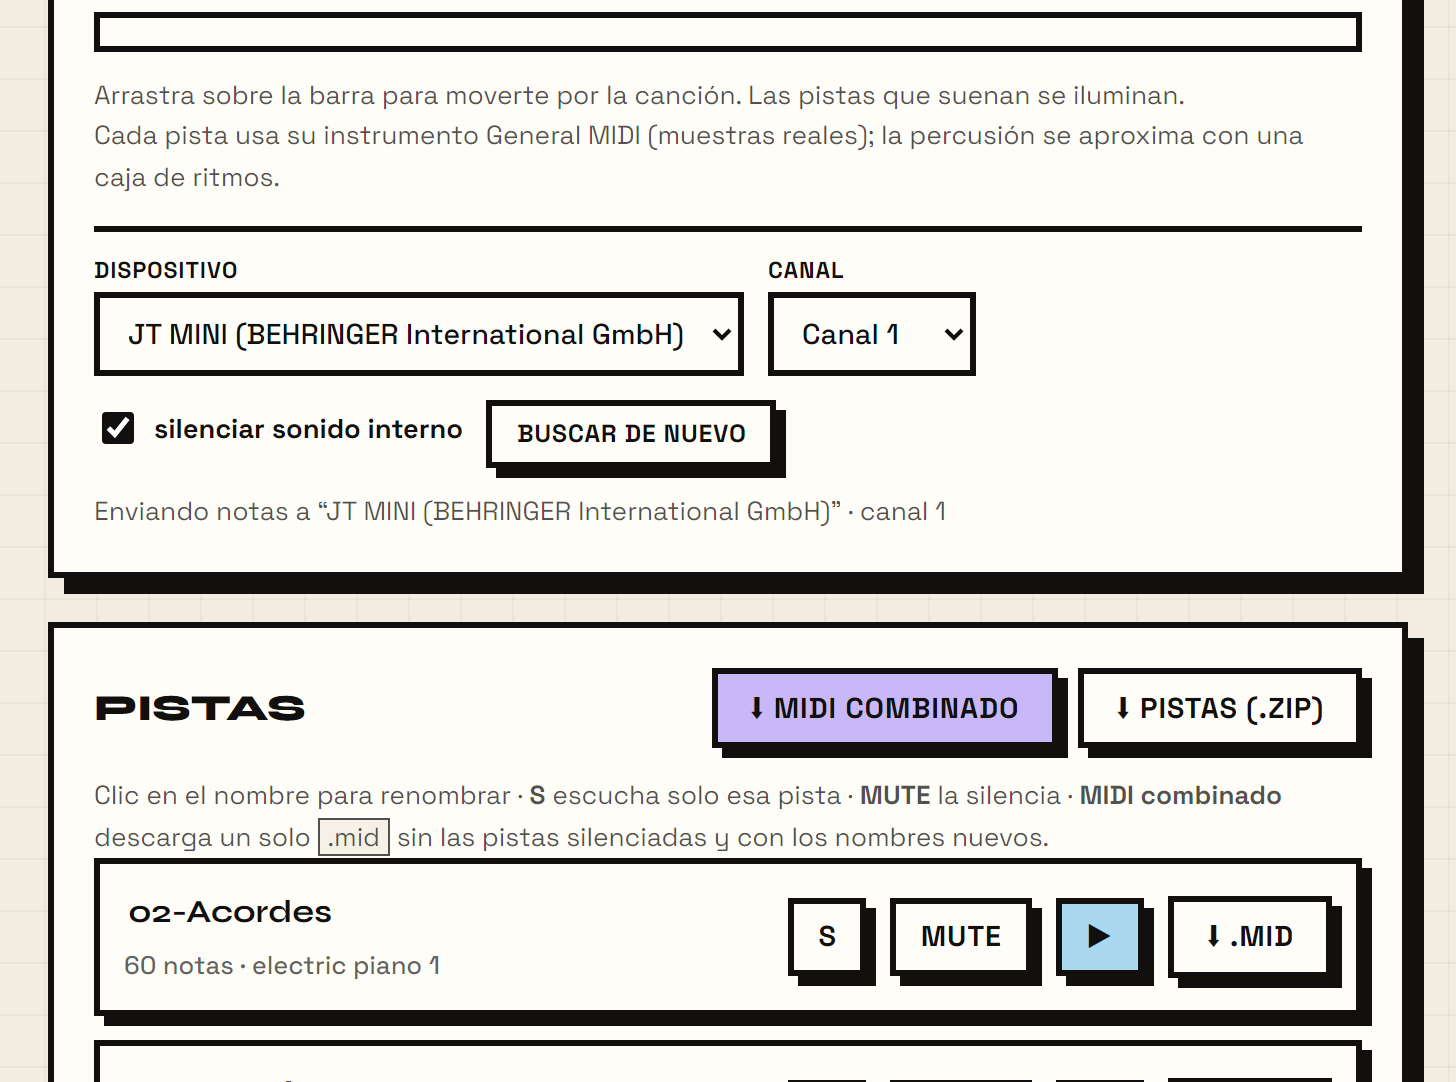
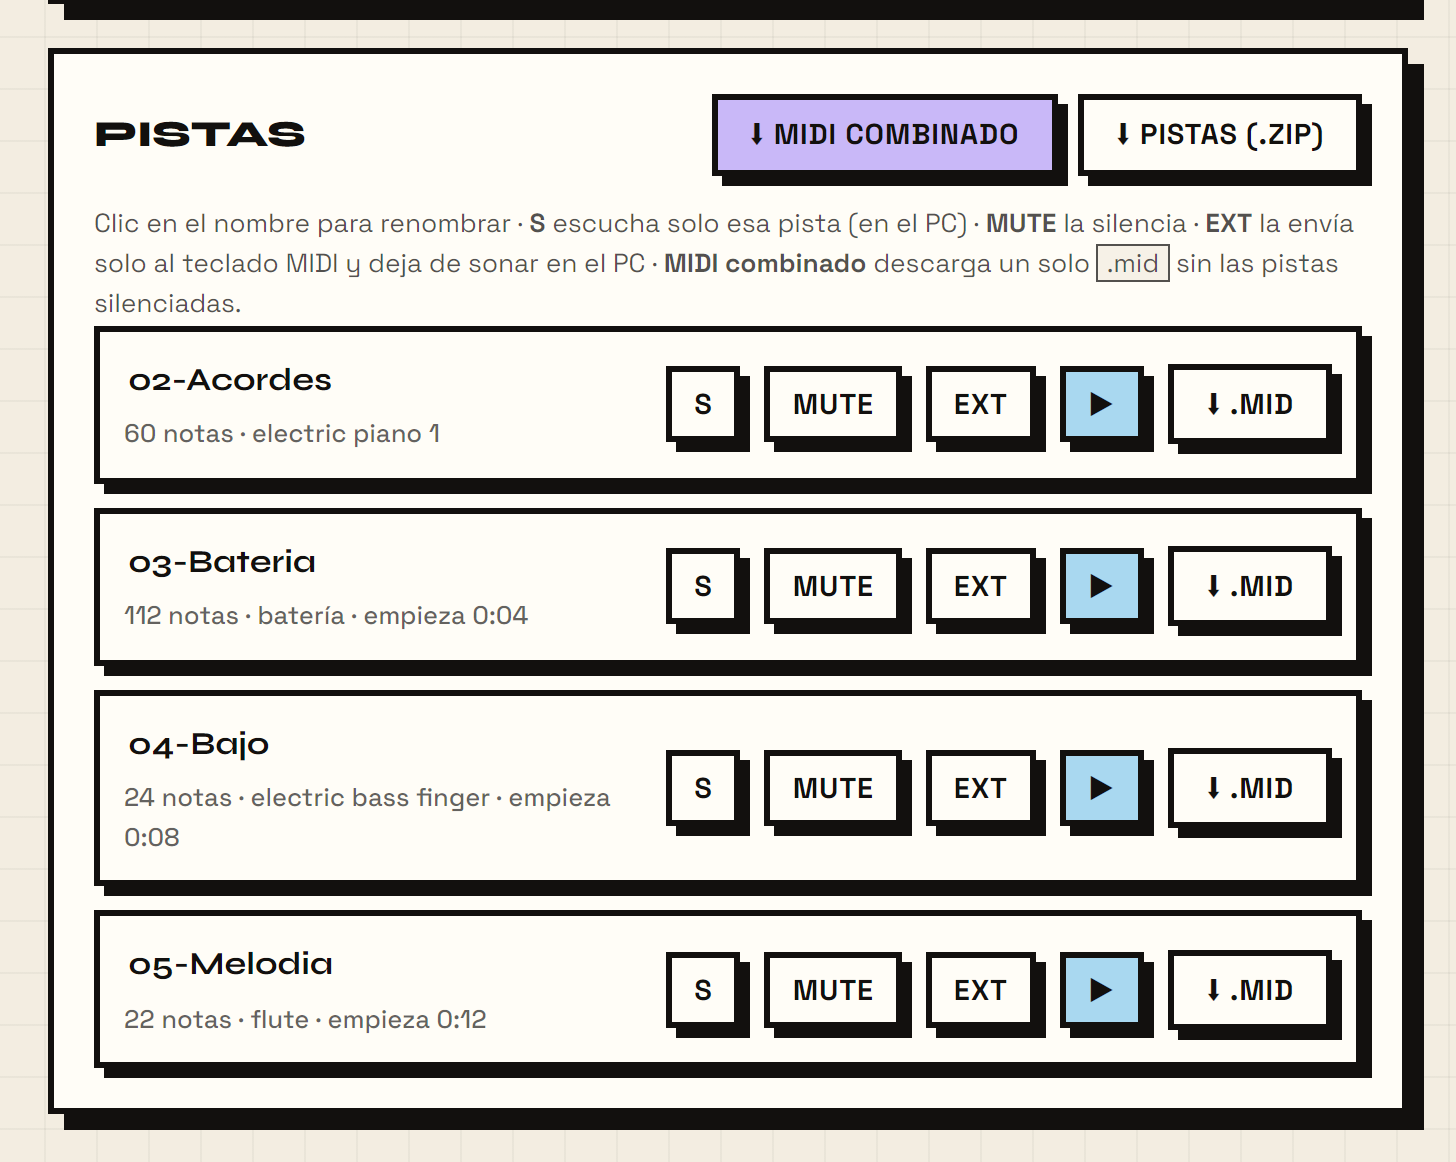
Añade botón EXT: enviar una pista sola al teclado MIDI
Cada pista tiene ahora un botón EXT que la enruta al dispositivo MIDI
externo (y deja de sonar en el PC). El resto de pistas sigue reproduciéndose
en el sintetizador interno; los botones S (solo) y MUTE afectan solo a lo
que se oye en el PC. Así se puede dejar una pista en un teclado hardware y
seguir mezclando el resto.

- routedToExt / isAudiblePC / anySoloPC: el solo/mute ignora las pistas
  enrutadas; la salida MIDI ya no manda "todo lo que suena", solo las EXT
- highlight: verde = suena en el PC, lila = va al teclado
- fila enrutada: marcador lila, S/MUTE deshabilitados
- panel MIDI: estado "enviando: <pistas>"; EXT se habilita al conectar
- docs: GIF y capturas regeneradas mostrando la función (nueva 06-ext)

diff --git a/web/app.js b/web/app.js
@@ -113,8 +113,13 @@ function buildPlayer(arrayBuffer) {
       const entry = { notes, muted: false, gain, spec, inst: null, part: null };
 
       entry.part = new Tone.Part((time, note) => {
-        // Sintetizador interno (el gain de la pista aplica mute/solo).
-        if (entry.inst && !state.internalMuted) {
+        if (routedToExt(entry)) {
+          // Esta pista va sólo al teclado externo.
+          const t = domTimeFromTone(time);
+          midiOut.noteOn(note.midi, note.velocity, t);
+          midiOut.noteOff(note.midi, t + Math.max(0.03, note.duration) * 1000);
+        } else if (entry.inst && !state.internalMuted) {
+          // Sintetizador interno (el gain de la pista aplica mute/solo).
           if (entry.spec.type === 'drum') {
             entry.inst.start({ note: drumSample(note.midi), time, velocity: note.velocity });
           } else {
@@ -122,12 +127,6 @@ function buildPlayer(arrayBuffer) {
               note: note.midi, time, duration: note.duration, velocity: note.velocity,
             });
           }
-        }
-        // Dispositivo MIDI externo (solo las pistas que suenan).
-        if (midiOut.enabled && isAudible(entry)) {
-          const t = domTimeFromTone(time);
-          midiOut.noteOn(note.midi, note.velocity, t);
-          midiOut.noteOff(note.midi, t + Math.max(0.03, note.duration) * 1000);
         }
       }, notes).start(0);
 
@@ -267,44 +266,63 @@ function updateClock() {
   highlightActive(cur);
 }
 
-// Ilumina las pistas que tienen alguna nota sonando en el instante `cur`.
+// Ilumina las pistas según lo que suena: verde = en el PC, lila = al teclado MIDI.
 function highlightActive(cur) {
   const playing = Tone.getTransport().state === 'started';
   state.parts.forEach((p, i) => {
     const row = state.rows[i];
     if (!row) return;
     // Ventana mínima de 180 ms para que la percusión (notas muy cortas) parpadee visible.
-    const active =
-      playing &&
-      isAudible(p) &&
-      p.notes.some((n) => n.time <= cur && cur < n.time + Math.max(n.duration, 0.18));
-    row.classList.toggle('playing', active);
+    const hasNote = p.notes.some(
+      (n) => n.time <= cur && cur < n.time + Math.max(n.duration, 0.18)
+    );
+    row.classList.toggle('playing', playing && isAudiblePC(p) && hasNote);
+    row.classList.toggle('playing-ext', playing && routedToExt(p) && hasNote);
   });
 }
 
-// ---------- silenciar / solo ----------
+// ---------- silenciar / solo / salida por pista ----------
 
-const anySolo = () => state.parts.some((p) => p.solo);
-const isAudible = (p) => !p.muted && (!anySolo() || p.solo);
+// Una pista suena por el teclado externo (y deja de sonar en el PC).
+const routedToExt = (p) => !!p.toExternal && midiOut.enabled;
+// El solo sólo cuenta pistas que se oyen por el PC.
+const anySoloPC = () => state.parts.some((p) => p.solo && !routedToExt(p));
+const isAudiblePC = (p) =>
+  !routedToExt(p) && !p.muted && (!anySoloPC() || p.solo);
 
-// Recalcula qué pistas suenan según mute + solo y refresca la interfaz.
+// Recalcula qué pistas suenan (PC + externo) y refresca la interfaz.
 function applyAudio() {
-  const solo = anySolo();
+  const solo = anySoloPC();
   state.parts.forEach((p, i) => {
-    const audible = !p.muted && (!solo || p.solo);
+    const routed = routedToExt(p);
+    const audible = !routed && !p.muted && (!solo || p.solo);
     p.gain.gain.value = audible ? 1 : 0;
     if (!audible) { try { p.inst?.stop(); } catch {} }
+
     if (p.soloBtn) {
-      p.soloBtn.classList.toggle('is-solo', !!p.solo);
-      p.soloBtn.setAttribute('aria-pressed', String(!!p.solo));
+      p.soloBtn.classList.toggle('is-solo', !!p.solo && !routed);
+      p.soloBtn.disabled = routed;
+      p.soloBtn.setAttribute('aria-pressed', String(!!p.solo && !routed));
     }
-    state.rows[i]?.classList.toggle('dimmed', solo && !p.solo && !p.muted);
+    if (p.muteBtn) p.muteBtn.disabled = routed;
+    if (p.extBtn) {
+      p.extBtn.classList.toggle('is-ext', !!p.toExternal);
+      p.extBtn.disabled = !midiOut.enabled;
+      p.extBtn.setAttribute('aria-pressed', String(!!p.toExternal));
+    }
+
+    const row = state.rows[i];
+    if (row) {
+      row.classList.toggle('routed', routed);
+      row.classList.toggle('dimmed', solo && !p.solo && !p.muted && !routed);
+    }
   });
+  updateMidiStatus();
 }
 
 function setSolo(i, solo) {
   const p = state.parts[i];
-  if (!p) return;
+  if (!p || routedToExt(p)) return;
   p.solo = solo;
   applyAudio();
 }
@@ -313,6 +331,31 @@ function clearAllSolo() {
   let changed = false;
   for (const p of state.parts) if (p.solo) { p.solo = false; changed = true; }
   if (changed) applyAudio();
+}
+
+// Enruta / desenruta la pista i hacia el teclado MIDI externo.
+function setExternal(i, on) {
+  const p = state.parts[i];
+  if (!p) return;
+  if (on && !midiOut.enabled) return;
+  p.toExternal = on;
+  if (on) {
+    p.solo = false;
+    p.muted = false;
+    applyMuteUi(i, false);
+    try { p.inst?.stop(); } catch {}
+  } else {
+    midiOut.panic(); // corta notas que hubieran quedado sonando en el teclado
+  }
+  applyAudio();
+  updateMergeButton();
+}
+
+// ¿Alguna pista enruta al teclado? (para el texto de estado)
+function extTrackNames() {
+  return state.parts
+    .map((p, i) => (p.toExternal ? state.tracks[i]?.name : null))
+    .filter(Boolean);
 }
 
 // ---------- desplazar el punto de reproducción ----------
@@ -433,6 +476,17 @@ function renderTracks() {
     if (part) part.muteBtn = muteBtn;
     applyMuteUi(i, part?.muted || false);
 
+    const extBtn = document.createElement('button');
+    extBtn.type = 'button';
+    extBtn.className = 'btn ghost ext-btn';
+    extBtn.textContent = 'EXT';
+    extBtn.title = 'Enviar solo esta pista al teclado MIDI (deja de sonar en el PC)';
+    extBtn.setAttribute('aria-label', extBtn.title);
+    extBtn.setAttribute('aria-pressed', 'false');
+    extBtn.disabled = !midiOut.enabled;
+    extBtn.addEventListener('click', () => setExternal(i, !state.parts[i]?.toExternal));
+    if (part) part.extBtn = extBtn;
+
     const locate = document.createElement('button');
     locate.type = 'button';
     locate.className = 'btn ghost locate';
@@ -450,7 +504,7 @@ function renderTracks() {
       download(exportBytes(t, name), `${name}.mid`);
     });
 
-    li.append(info, spacer, soloBtn, muteBtn, locate, dl);
+    li.append(info, spacer, soloBtn, muteBtn, extBtn, locate, dl);
     list.append(li);
   });
 
@@ -506,8 +560,8 @@ async function playFromTrack(i) {
   const p = state.parts[i];
   if (!p) return;
 
-  if (p.muted) setMuted(i, false);
-  if (anySolo() && !p.solo) clearAllSolo();
+  if (!p.toExternal && p.muted) setMuted(i, false);
+  if (anySoloPC() && !p.solo) clearAllSolo();
 
   await Tone.start();
   await ensureInstruments();
@@ -615,6 +669,40 @@ initMidiOut();
 
 // ---------- salida MIDI externa ----------
 
+let midiLastInputs = 0;
+
+// Texto de estado del panel MIDI (lo llama initMidiOut y applyAudio).
+function updateMidiStatus() {
+  const status = $('midi-status');
+  if (!status || status.dataset.locked === '1') return; // no pisar un error mostrado
+  if (!midiOut.access) { status.textContent = ''; return; } // aún sin conectar
+
+  if (midiOut.enabled) {
+    const name = $('midi-device').selectedOptions[0]?.textContent || 'dispositivo';
+    const ch = $('midi-channel').value;
+    const routed = extTrackNames();
+    status.textContent =
+      `Teclado “${name}” · canal ${ch} — ` +
+      (routed.length
+        ? `enviando: ${routed.join(', ')}`
+        : 'pulsa EXT en una pista para enviarla');
+    return;
+  }
+  if (midiOut.outputs().length > 0) {
+    status.textContent = 'Elige un dispositivo de salida en la lista.';
+  } else if (midiLastInputs > 0) {
+    status.textContent =
+      'Se detectan entradas MIDI pero ninguna salida. Tu aparato parece un ' +
+      'controlador (solo envía notas): para oírlo hace falta un dispositivo con ' +
+      'generador de sonido, o un puerto virtual tipo loopMIDI hacia un DAW.';
+  } else {
+    status.textContent =
+      'MIDI activado, pero no se detecta ningún dispositivo. Prueba a: reconectar ' +
+      'el aparato, cerrar otras apps que lo estén usando y reiniciar el navegador; ' +
+      'luego pulsa «Buscar de nuevo».';
+  }
+}
+
 function initMidiOut() {
   const connectBtn = $('midi-connect');
   const controls = $('midi-controls');
@@ -632,34 +720,9 @@ function initMidiOut() {
   }
   channelSel.value = '1';
 
-  let lastInputs = 0;
-
-  function updateStatus() {
-    if (midiOut.enabled) {
-      const name = deviceSel.selectedOptions[0]?.textContent || 'dispositivo';
-      status.textContent = `Enviando notas a “${name}” · canal ${channelSel.value}`;
-      return;
-    }
-    const outs = midiOut.outputs().length;
-    if (outs > 0) {
-      status.textContent = 'Elige un dispositivo de salida en la lista.';
-    } else if (lastInputs > 0) {
-      status.textContent =
-        'Se detectan entradas MIDI pero ninguna salida. Tu aparato parece un ' +
-        'controlador (solo envía notas): para oírlo hace falta un dispositivo con ' +
-        'generador de sonido, o un puerto/instrumento de salida (p. ej. un módulo, ' +
-        'un teclado con sonidos, o un puerto virtual tipo loopMIDI hacia un DAW).';
-    } else {
-      status.textContent =
-        'MIDI activado, pero no se detecta ningún dispositivo. Prueba a: reconectar ' +
-        'el aparato, cerrar otras apps que lo estén usando y reiniciar el navegador; ' +
-        'luego pulsa «Buscar de nuevo».';
-    }
-  }
-
   function refreshDevices(diag) {
     const d = diag || midiOut.diagnostics();
-    lastInputs = d.inputs.length;
+    midiLastInputs = d.inputs.length;
     const current = deviceSel.value;
     deviceSel.innerHTML = '<option value="">— ninguno —</option>';
     for (const o of d.outputs) {
@@ -674,12 +737,13 @@ function initMidiOut() {
       deviceSel.value = '';
       midiOut.select(null);
     }
-    updateStatus();
+    applyAudio(); // reevalúa el enrutado por si cambió el dispositivo
   }
 
   if (!midiOut.supported) {
     connectBtn.disabled = true;
     connectBtn.textContent = 'Teclado MIDI no disponible';
+    status.dataset.locked = '1';
     status.innerHTML = midiOut.secureContext
       ? 'Este navegador no soporta Web MIDI. Usa Chrome, Edge u Opera (en Brave, actívalo en <code>brave://settings/content/midi</code>).'
       : 'Web MIDI solo funciona en conexión segura, y estás entrando por <code>http://</code> + IP. Opciones:<br>' +
@@ -696,9 +760,11 @@ function initMidiOut() {
       midiOut.onchange = (d) => refreshDevices(d);
       connectBtn.hidden = true;
       controls.hidden = false;
+      delete status.dataset.locked;
       refreshDevices(diag);
     } catch (err) {
       connectBtn.disabled = false;
+      status.dataset.locked = '1';
       status.textContent = /permission|not granted|denied|security/i.test(err.message || '')
         ? 'No se concedió permiso para usar MIDI. Permítelo en el icono de ajustes junto a la URL (o en chrome://settings/content/midi) y vuelve a pulsar el botón.'
         : (err.message || 'No se pudo acceder a los dispositivos MIDI.');
@@ -709,11 +775,11 @@ function initMidiOut() {
 
   deviceSel.addEventListener('change', () => {
     midiOut.select(deviceSel.value || null);
-    updateStatus();
+    applyAudio();
   });
   channelSel.addEventListener('change', () => {
     midiOut.setChannel(+channelSel.value);
-    updateStatus();
+    updateMidiStatus();
   });
   internalChk.addEventListener('change', () => {
     state.internalMuted = internalChk.checked;

diff --git a/web/index.html b/web/index.html
@@ -47,7 +47,7 @@
            aria-label="Posición de reproducción" aria-valuemin="0" aria-valuenow="0">
         <div id="bar"></div>
       </div>
-      <p class="hint">Arrastra sobre la barra para moverte por la canción. Las pistas que suenan se iluminan.<br>Cada pista usa su instrumento General MIDI (muestras reales); la percusión se aproxima con una caja de ritmos.</p>
+      <p class="hint">Arrastra sobre la barra para moverte por la canción. Las pistas que suenan se iluminan (verde = en el PC, lila = al teclado MIDI).<br>Cada pista usa su instrumento General MIDI (muestras reales); la percusión se aproxima con una caja de ritmos.</p>
 
       <div class="midi-out">
         <button id="midi-connect" type="button" class="btn ghost">Enviar a teclado MIDI…</button>
@@ -73,7 +73,7 @@
           <button id="zip" type="button" class="btn ghost">⬇ Pistas (.zip)</button>
         </div>
       </div>
-      <p class="hint" style="margin-top:0">Clic en el nombre para renombrar · <strong>S</strong> escucha solo esa pista · <strong>MUTE</strong> la silencia · <strong>MIDI combinado</strong> descarga un solo <code>.mid</code> sin las pistas silenciadas y con los nombres nuevos.</p>
+      <p class="hint" style="margin-top:0">Clic en el nombre para renombrar · <strong>S</strong> escucha solo esa pista (en el PC) · <strong>MUTE</strong> la silencia · <strong>EXT</strong> la envía solo al teclado MIDI y deja de sonar en el PC · <strong>MIDI combinado</strong> descarga un solo <code>.mid</code> sin las pistas silenciadas.</p>
       <ul id="track-list"></ul>
     </section>
 

diff --git a/web/style.css b/web/style.css
@@ -269,6 +269,11 @@ code {
 }
 #track-list li:first-child { margin-top: 0; }
 #track-list li.playing { background: var(--mint); }
+#track-list li.playing-ext { background: var(--lav); }
+#track-list li.routed {
+  box-shadow: -8px 0 0 var(--lav), var(--sh);
+}
+#track-list li.routed:not(.playing-ext) { background: #efe9fc; }
 #track-list li.muted { background: #e7e3d8; }
 #track-list li.muted .tname-input { color: var(--ink); opacity: .5; text-decoration: line-through; }
 #track-list li.muted .tmeta { opacity: .45; }
@@ -309,15 +314,17 @@ code {
 #track-list li > .btn { flex: none; }
 .btn.locate,
 .btn.mute-btn,
-.btn.solo-btn {
-  padding: 9px 12px;
-  min-width: 44px;
+.btn.solo-btn,
+.btn.ext-btn {
+  padding: 9px 11px;
+  min-width: 42px;
   justify-content: center;
 }
-.btn.solo-btn { min-width: 38px; }
+.btn.solo-btn { min-width: 36px; }
 .btn.solo-btn.is-solo { background: var(--yellow); }
 .btn.locate { background: var(--sky); }
 .btn.mute-btn.is-muted { background: var(--red); }
+.btn.ext-btn.is-ext { background: var(--lav); }
 
 #track-list li.dimmed { opacity: .45; }
 
@@ -333,8 +340,9 @@ code {
   padding: 14px 16px;
 }
 
-@media (max-width: 520px) {
+@media (max-width: 620px) {
   #track-list li { flex-wrap: wrap; }
   .tinfo { flex-basis: 100%; }
   .tname-input { max-width: 100%; }
+  #track-list li .spacer { display: none; }
 }

diff --git a/README.md b/README.md
@@ -60,9 +60,13 @@ Abre la URL, arrastra un `.mid`, y podrás:
 
 - escucharlo con el instrumento General MIDI de cada pista (muestras reales;
   la percusión del canal 10 se aproxima con una caja de ritmos TR-808);
-- **S** (solo, como en una mesa de mezclas): escuchar solo esa pista; se pueden
-  poner varias en solo a la vez; no afecta a la exportación;
+- **S** (solo, como en una mesa de mezclas): escuchar solo esa pista **en el PC**;
+  se pueden poner varias a la vez; no afecta a la exportación ni a la salida MIDI;
 - silenciar / activar pistas con el botón **MUTE** de cada fila;
+- **EXT**: enviar *solo esa pista* al teclado MIDI externo (deja de sonar en el
+  PC); el resto de pistas sigue reproduciéndose en el PC y puedes encenderlas /
+  apagarlas / ponerlas en solo con normalidad. Útil para dejar una pista en el
+  teclado hardware y seguir mezclando el resto;
 - **localizar una pista**: el botón ▶ de cada fila salta la reproducción al
   instante en que esa pista entra por primera vez (y la desilencia si hacía
   falta); la fila muestra "empieza m:ss" cuando no arranca desde el principio;
@@ -77,10 +81,9 @@ Abre la URL, arrastra un `.mid`, y podrás:
   original, sin las pistas silenciadas y con los nombres nuevos aplicados;
 - **Pistas (.zip)**: descargar todas las pistas separadas en un `.zip`;
 - **Enviar a un teclado MIDI externo** (Web MIDI): elegir dispositivo de salida y
-  canal (1-16); se envían las notas de las pistas que suenan (respeta mute/solo),
-  con opción de silenciar el sintetizador interno. Al parar / pausar / saltar se
-  manda *all-notes-off*. Requiere Chrome, Edge u Opera (Safari no lo soporta) y
-  conceder el permiso del navegador.
+  canal (1-16); luego pulsa **EXT** en las pistas que quieras mandar al teclado.
+  Al parar / pausar / saltar se manda *all-notes-off*. Requiere Chrome, Edge u
+  Opera (Safari no lo soporta) y conceder el permiso del navegador.
 
   **Si no pide permiso / no aparece el dispositivo:**
   - Estás por `http://` + IP → no es contexto seguro y la API ni existe. Usa
